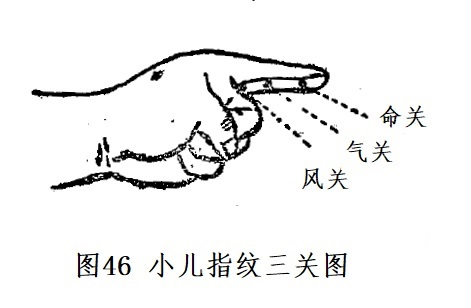
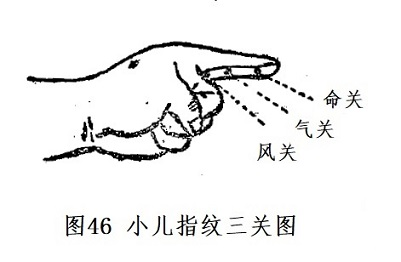
update ok/gl/gl05-0.1.9.0.0.md. 删除原图，保留了有清晰文字的图片。另，新插入的图片比较大，因此将原图片缩小为原来的85%后重新上传图片，请批准。

diff --git a/ok/gl/gl05-0.1.9.0.0.md b/ok/gl/gl05-0.1.9.0.0.md
@@ -4,8 +4,6 @@
 
 指纹分风、气、命（又称寅、卯、辰）三关。食指第一节为风关，第二节为气关，第三节为命关。（图46）
 
-
-![](img\5图46.jpg)
 ![](img\图46-2.jpg)
 
 #### （一）望指纹方法
